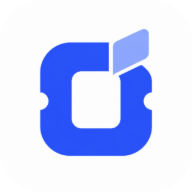
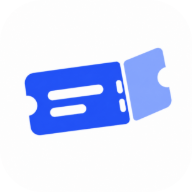
style: clarify ticket opening identity with tear-off design

diff --git a/public/index.html b/public/index.html
@@ -7,22 +7,22 @@
   <meta name="theme-color" content="#f4f6fa">
   <meta name="color-scheme" content="light">
   <meta name="description" content="날짜와 예매처로 찾는 티켓 오픈 일정. KBO 5개 구단의 경기와 예매 오픈도 한눈에.">
-  <link rel="manifest" href="manifest.webmanifest?v=20260929-open-icon">
-  <link rel="icon" type="image/png" sizes="32x32" href="favicon-32.png?v=20260929-open-icon">
-  <link rel="icon" type="image/png" sizes="16x16" href="favicon-16.png?v=20260929-open-icon">
-  <link rel="apple-touch-icon" sizes="180x180" href="icon-180.png?v=20260929-open-icon">
+  <link rel="manifest" href="manifest.webmanifest?v=20260929-ticket-icon">
+  <link rel="icon" type="image/png" sizes="32x32" href="favicon-32.png?v=20260929-ticket-icon">
+  <link rel="icon" type="image/png" sizes="16x16" href="favicon-16.png?v=20260929-ticket-icon">
+  <link rel="apple-touch-icon" sizes="180x180" href="icon-180.png?v=20260929-ticket-icon">
   <meta name="apple-mobile-web-app-capable" content="yes">
   <meta name="apple-mobile-web-app-title" content="티켓오픈">
-  <link rel="stylesheet" href="home.css?v=20260929-open-icon">
+  <link rel="stylesheet" href="home.css?v=20260929-ticket-icon">
   <script defer src="schedule-model.js?v=20260928-focus"></script>
   <script defer src="calendar-subscriptions.js?v=20260929-calendar"></script>
-  <script defer src="home.js?v=20260929-open-icon"></script>
+  <script defer src="home.js?v=20260929-ticket-icon"></script>
 </head>
 <body>
   <a class="skip" href="#results">일정 목록으로 이동</a>
   <div class="shell">
     <header class="topbar">
-      <a class="brand" href="./" aria-label="티켓 오픈 홈"><span class="brand-mark" aria-hidden="true"><img src="icon-192.png?v=20260929-open-icon" width="31" height="31" alt=""></span><span>티켓<span class="brand-light">오픈</span></span></a>
+      <a class="brand" href="./" aria-label="티켓 오픈 홈"><span class="brand-mark" aria-hidden="true"><img src="icon-192.png?v=20260929-ticket-icon" width="31" height="31" alt=""></span><span>티켓<span class="brand-light">오픈</span></span></a>
       <nav class="main-nav" aria-label="주 메뉴">
         <button id="tab-home" data-view="home" aria-current="page">공연·전시</button>
         <button id="tab-sports" data-view="sports">스포츠 <span class="nav-note">KBO</span></button>

diff --git a/public/home.js b/public/home.js
@@ -339,7 +339,7 @@ async function notify(title, body, key) {
   if (!('Notification' in window) || Notification.permission !== 'granted') return;
   try {
     const registration = await navigator.serviceWorker.getRegistration();
-    if (registration) { await registration.showNotification(title, { body, icon: 'icon-192.png?v=20260929-open-icon', tag: `toc:${key}`, renotify: true, vibrate: [200, 100, 200] }); return; }
+    if (registration) { await registration.showNotification(title, { body, icon: 'icon-192.png?v=20260929-ticket-icon', tag: `toc:${key}`, renotify: true, vibrate: [200, 100, 200] }); return; }
     new Notification(title, { body, tag: `toc:${key}` });
   } catch { /* Notification support depends on browser and permissions. */ }
 }

diff --git a/public/sw.js b/public/sw.js
@@ -22,7 +22,7 @@ self.addEventListener('push', (event) => {
   const data = (d.data && typeof d.data === 'object') ? d.data : {};
   event.waitUntil(self.registration.showNotification(d.title || '티켓오픈 체커', {
     body: d.body || '',
-    icon: 'icon-192.png?v=20260929-open-icon',
+    icon: 'icon-192.png?v=20260929-ticket-icon',
     // 페이지가 띄우는 알림과 tag를 맞춰 둔다 — 같은 tag면 쌓이지 않고 서로 교체된다
     tag: data.tag || d.tag || 'toc-push',
     renotify: true,

diff --git a/public/assets/brand/README.md b/public/assets/brand/README.md
@@ -1,11 +1,11 @@
 # Ticket Open icon
 
-Original artwork: `ticket-open-master.png`, generated with the built-in `image_gen` tool on 2026-09-29. The new opening-ticket emblem combines a bold cobalt loop, ticket notches and a lifted periwinkle corner on white. It replaces the literal ticket-and-clock design. No external logo or stock artwork is used.
+Original artwork: `ticket-open-master.png`, refined with the built-in `image_gen` tool on 2026-09-29. A cobalt admission ticket with unmistakable side notches, two printed-information bars and a lifted periwinkle tear-off stub makes the ticket-opening theme explicit while preserving the previous emblem's white-and-blue palette. No external logo or stock artwork is used.
 
-Run `node scripts/make-icons.js` from the repository root to regenerate the six PNG assets with installed Chrome. The 192/512px general icons and 16/32px favicons have transparent rounded corners. Apple touch and Android maskable icons retain opaque square backgrounds so the OS can apply its own shape. The Android version adds 6% white padding on each edge to protect the lifted corner; smaller icons retain the larger mark for legibility. Header and notifications use the same artwork.
+Run `node scripts/make-icons.js` from the repository root to regenerate the six PNG assets with installed Chrome. The 192/512px general icons and 16/32px favicons have transparent rounded corners. Apple touch and Android maskable icons retain opaque square backgrounds so the OS can apply its own shape. The Android version adds 6% white padding on each edge to protect the lifted stub; smaller icons retain the larger mark for legibility. Header and notifications use the same artwork.
 
 Android artwork must remain inside the central circle with radius 40% of image width: [maskable icon guidance](https://web.dev/articles/maskable-icon). The PNGs are committed; deployment does not need image generation.
 
 ## Generation prompt
 
-Use case: logo-brand. Design an original, exceptionally refined app icon for Ticket Open, a ticket sale opening tracker. This is a fresh brand concept, not a ticket clip-art illustration. Creative idea: an OPENING TICKET. Create ONE large, bold electric-cobalt-blue folded ribbon emblem on a pure soft-white #FAFAFC square background. The emblem should combine the impression of a ticket and an opening doorway into a beautiful compact abstract O: a thick, softly squared loop with a generous white center and one deliberate opening at its upper-right corner, where a short ticket flap lifts forward. One or two subtle concave ticket notches may be incorporated into the outer silhouette only if they enhance the logo. The visual should read as one coherent, confident, memorable logo, not as two unrelated objects. Main color vivid #3154F5; the single folded return face may be light periwinkle blue #9DB5FF. Make the transition geometric and clean, not a gradient. Keep an equal balance of visual weight, large clean negative space and luxurious precision. Pure white background dominates; the saturated emblem provides immediate recognition on a phone screen. Think expertly art-directed Japanese / Swiss contemporary identity design: warm rounded geometry with one decisive, distinctive cut. Absolutely NO clock, calendar, bell, checkmark, lettering, numbers, dotted perforation, sparkles, stars, badges, outlines, border around the icon, glass, shadows, glow, bevels, paper texture or busy micro details. No thin strokes. Do not show a conventional long horizontal admission ticket. Avoid a generic abstract infinity logo. The mark should occupy approximately 62 percent width and 62 percent height, all essential artwork strictly inside a central circle of radius 37 percent of canvas width. Clean flat vector-like solid color geometry, optically centered. Full-bleed opaque WHITE square canvas with NO rounded outer corners, one final standalone app icon only, no mockup, no design board, no captions. It must look intentional, attractive and unmistakably sharp at 24 and 48 pixels.
+Use case: logo-brand. Refine the referenced Ticket Open icon. The user LIKES its beautiful white-and-cobalt visual identity, bold rounded geometry and light-blue lifting corner, but cannot recognize a ticket or ticket opening. Keep that appealing visual language while making the subject immediately recognizable as an ADMISSION TICKET BEING OPENED. The final emblem must unmistakably look like a ticket, never like an O, a letter, a door or an abstract software logo. Replace the hollow loop with a SOLID vivid cobalt #3154F5 admission-ticket body, a compact horizontal rectangle with generous rounded corners, approximately 1.55 times as wide as tall. A pronounced concave semicircular notch midway along the left short edge, and a matching notch in the right short edge of the attached tear-off stub, establish the familiar ticket silhouette. Define the tear-off stub near the right quarter using a short white perforation with just TWO bold white slots. The periwinkle #9DB5FF right-hand stub is lifting upward and outward from the perforation like a ticket being opened, with one elegant narrow white gap between it and the cobalt body, physically aligned so both pieces still read as a single ticket. This lifted stub is the memorable design detail from the reference. Put only TWO short thick rounded WHITE parallel printed-information bars in the large blue left section, one longer above and one shorter below, with ample spacing; these are simple shapes, not letters. NO central hole. NO clock, calendar, bell, checkmark, arrow, sparkles, stars, badge or text. Use a very slight overall upward-right inclination for energy, but keep the ticket easy to recognize. Minimal flat solid-color geometry, luxurious proportions, clear silhouette, clean white negative space, no 3D, no gradient, no glow, no shadow, no texture, no thin outlines. Preserve the reference's pure white full-bleed square background and vivid blue palette. Do not put a colored tile or a border behind the ticket. Make the ticket and lifted stub together occupy roughly 65 percent of the square width and 55 percent of its height, visually centered; keep every meaningful edge inside a centered circle with radius 39 percent of the image width. No rounded outer canvas corners. One finished standalone square app icon, not a presentation board. It must be both aesthetically refined and obviously about opening tickets at 24px.

diff --git a/design-qa.md b/design-qa.md
@@ -102,3 +102,9 @@ Mobile Chrome emulation uses touch, DPR 2.625 and 344/360/384 CSS pixel widths w
 - A new cobalt loop with ticket notches and a lifted periwinkle corner replaces the ticket-and-clock illustration. White background and a large continuous silhouette improve recognition at small sizes; there are no interior clock hands or perforations. Header, notifications and all platform icons share the new source and `20260929-open-icon` asset version.
 - Android maskable output adds 6% white padding per edge to preserve the lifted corner in circular launchers. All colored artwork is within 38.12% of image width from the center. General icons retain the larger emblem. PNG dimensions, opacity/corner transparency, manifest parsing and local asset responses pass.
 - Inspected circle/squircle/safe-zone previews, 16/28/32/48/64px sizes on light/dark backgrounds, and 344px concert/sports pages. No layout changes or horizontal overflow. Existing evidence paths now show this emblem. Physical launcher behavior remains untested; public assets and mobile rendering are verified after deployment.
+
+## Recognizable opening ticket — 2026-09-29
+
+- Retained the approved white/cobalt/periwinkle palette and lifting detail, replacing the abstract loop with a recognizable admission-ticket silhouette. Side notches, two printed-information bars, a short perforation and the lifted tear-off stub explicitly connect the mark to tickets and opening. All app/header/notification/favicon references use `20260929-ticket-icon`.
+- Six PNG assets pass dimensions, corner alpha/opacity, manifest parsing and local HTTP verification. With the existing 6% Android inset, colored artwork reaches 36.83% of image width from the center, within the 40% circular safe zone.
+- Inspected 16–64px light/dark previews and 344px concert/sports views. Layout remains unchanged and has no horizontal overflow. Existing evidence paths now show this revision; public assets are checked after deployment. Physical launcher behavior remains untested.
